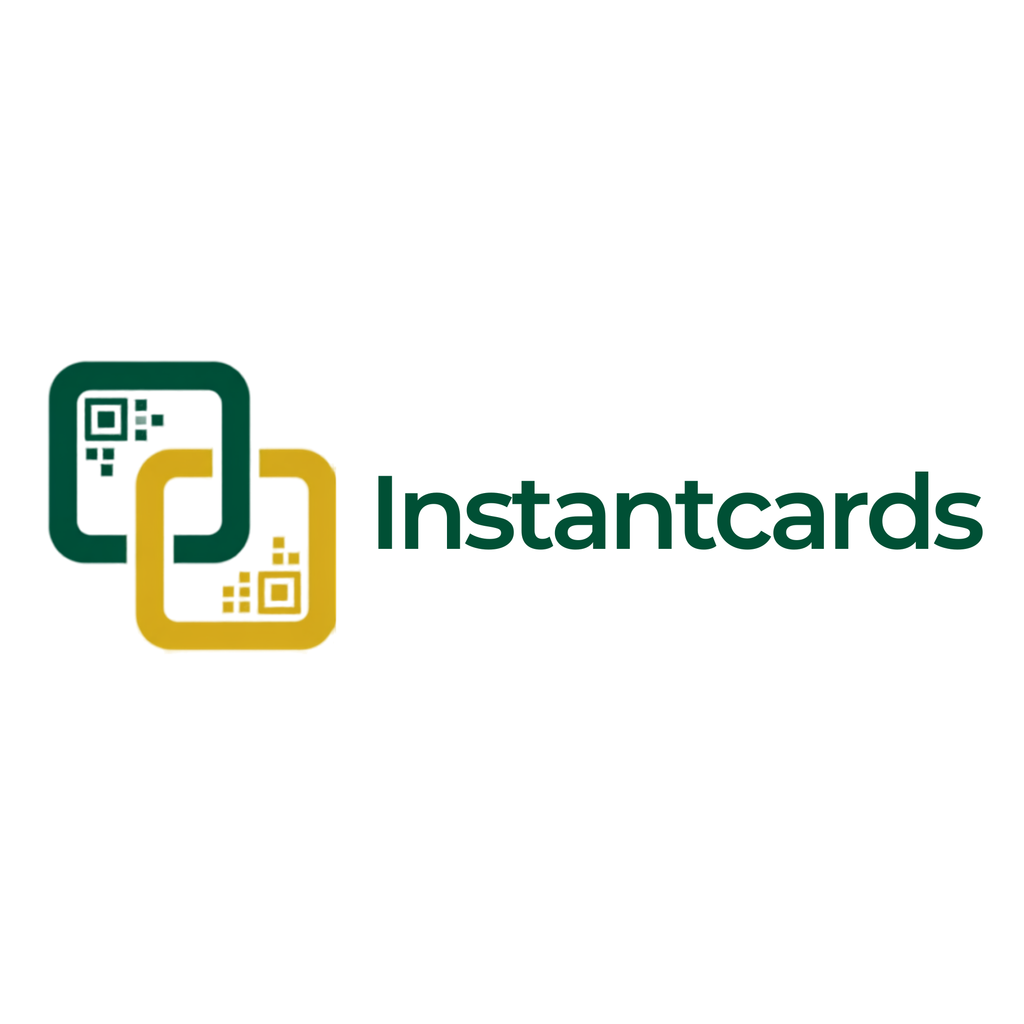
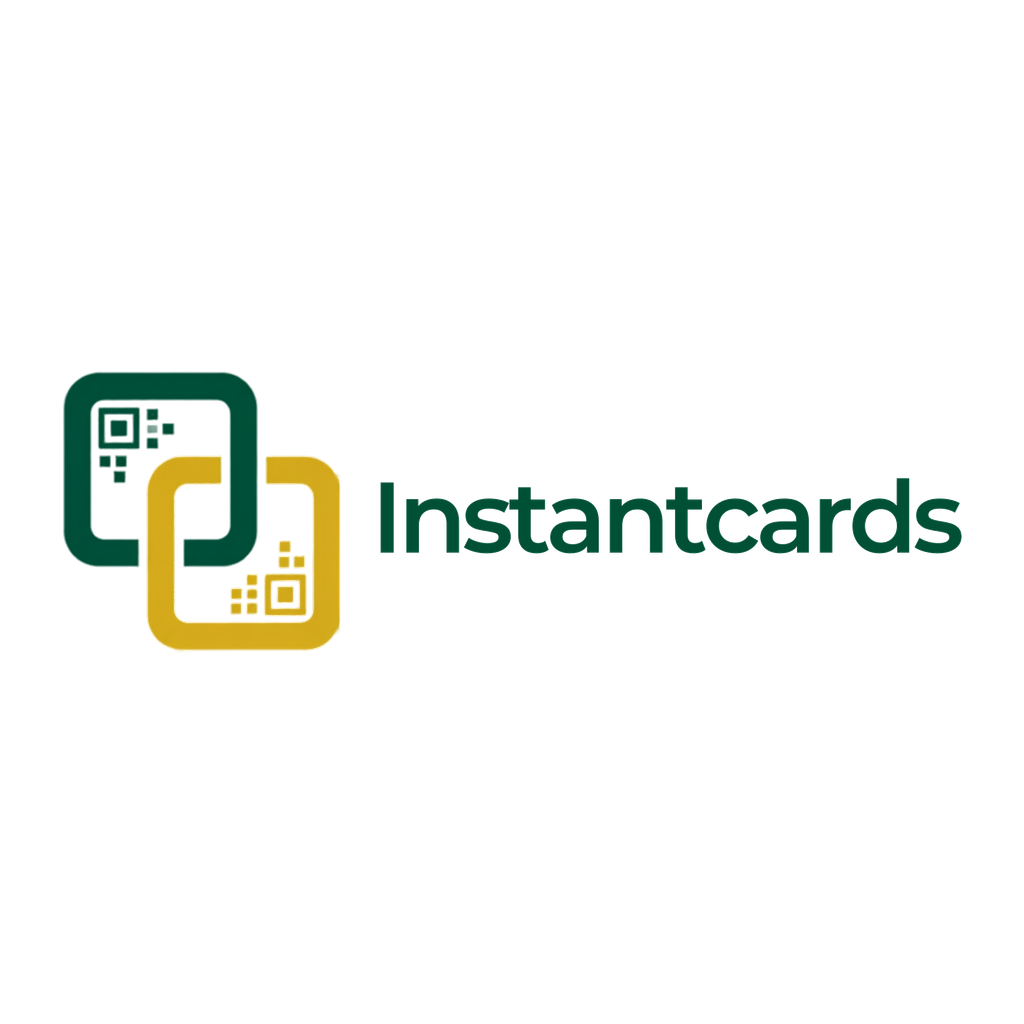
Refactor code structure for improved readability and maintainability

Changed region(s): [[0.0312, 0.3438, 0.9688, 0.6562]]

diff --git a/app/app/(tabs)/_layout.tsx b/app/app/(tabs)/_layout.tsx
@@ -4,31 +4,36 @@ import { Tabs } from 'expo-router';
 import { View, Text, StyleSheet } from 'react-native';
 import { Colors, FontSizes, FontWeights } from '../../../src/utils/tokens';
 
+function tabIconColor(active: boolean) {
+  return active ? Colors.brand : Colors.text2;
+}
+
 // ── Icon components (SVG-free, pure View) ─────────────────────────────────────
 const HomeIcon  = ({ active }: { active: boolean }) => (
   <View style={[ico.base, active && ico.active]}>
-    <Text style={{ fontSize: 18 }}>⌂</Text>
+    <Text style={[ico.glyph, { fontSize: 20, color: tabIconColor(active) }]}>⌂</Text>
   </View>
 );
 const CardIcon  = ({ active }: { active: boolean }) => (
   <View style={[ico.base, active && ico.active]}>
-    <Text style={{ fontSize: 16 }}>▭</Text>
+    <Text style={[ico.glyph, { fontSize: 18, color: tabIconColor(active) }]}>▭</Text>
   </View>
 );
 const HistoryIcon = ({ active }: { active: boolean }) => (
   <View style={[ico.base, active && ico.active]}>
-    <Text style={{ fontSize: 16 }}>≡</Text>
+    <Text style={[ico.glyph, { fontSize: 18, color: tabIconColor(active) }]}>≡</Text>
   </View>
 );
 const ProfileIcon = ({ active }: { active: boolean }) => (
   <View style={[ico.base, active && ico.active]}>
-    <Text style={{ fontSize: 16 }}>◯</Text>
+    <Text style={[ico.glyph, { fontSize: 18, color: tabIconColor(active) }]}>◯</Text>
   </View>
 );
 
 const ico = StyleSheet.create({
   base:   { alignItems: 'center', justifyContent: 'center', width: 32, height: 32, borderRadius: 10 },
-  active: { backgroundColor: `${Colors.brand}18` },
+  active: { backgroundColor: `${Colors.brand}28` },
+  glyph:  { fontWeight: FontWeights.semibold, includeFontPadding: false },
 });
 
 export default function TabsLayout() {
@@ -45,7 +50,7 @@ export default function TabsLayout() {
           paddingTop: 8,
         },
         tabBarActiveTintColor:   Colors.brand,
-        tabBarInactiveTintColor: Colors.text3,
+        tabBarInactiveTintColor: Colors.text2,
         tabBarLabelStyle: {
           fontSize: FontSizes.xs,
           fontWeight: FontWeights.medium,

diff --git a/src/components/BrandLogo.tsx b/src/components/BrandLogo.tsx
@@ -1,7 +1,7 @@
 import React from 'react';
-import { Image, ImageStyle, StyleProp, StyleSheet, View, ViewStyle } from 'react-native';
-import { Radii } from '../utils/tokens';
+import { Image, ImageStyle, StyleProp, View, ViewStyle } from 'react-native';
 
+/** Transparent logo — regenerate with `npm run generate:assets`. */
 const logoSource = require('../../assets/logo.png');
 const logoAsset = Image.resolveAssetSource(logoSource);
 const LOGO_ASPECT = logoAsset.height / logoAsset.width;
@@ -11,37 +11,19 @@ type Props = {
   width?: number;
   style?: StyleProp<ViewStyle>;
   imageStyle?: StyleProp<ImageStyle>;
-  /** White pad behind logo (logo artwork includes light background) */
-  padded?: boolean;
 };
 
-export function BrandLogo({ width = 240, style, imageStyle, padded = true }: Props) {
+export function BrandLogo({ width = 240, style, imageStyle }: Props) {
   const height = Math.round(width * LOGO_ASPECT);
 
-  const image = (
-    <Image
-      source={logoSource}
-      style={[{ width, height }, imageStyle]}
-      resizeMode="contain"
-      accessibilityLabel="Instantcards"
-    />
-  );
-
-  if (!padded) {
-    return <View style={style}>{image}</View>;
-  }
-
   return (
-    <View style={[styles.pad, { paddingHorizontal: width * 0.06, paddingVertical: width * 0.04 }, style]}>
-      {image}
+    <View style={style}>
+      <Image
+        source={logoSource}
+        style={[{ width, height }, imageStyle]}
+        resizeMode="contain"
+        accessibilityLabel="Instantcards"
+      />
     </View>
   );
 }
-
-const styles = StyleSheet.create({
-  pad: {
-    backgroundColor: '#FFFFFF',
-    borderRadius: Radii.lg,
-    alignSelf: 'center',
-  },
-});

diff --git a/app/app/(tabs)/home.tsx b/app/app/(tabs)/home.tsx
@@ -19,8 +19,8 @@ function QuickAction({
 }: { icon: string; label: string; color: string; onPress: () => void }) {
   return (
     <TouchableOpacity style={styles.qaCell} onPress={onPress} activeOpacity={0.72}>
-      <View style={[styles.qaIcon, { backgroundColor: color + '18' }]}>
-        <Text style={{ fontSize: 20 }}>{icon}</Text>
+      <View style={[styles.qaIcon, { backgroundColor: color + '28' }]}>
+        <Text style={[styles.qaIconGlyph, { color }]}>{icon}</Text>
       </View>
       <Text style={styles.qaLabel}>{label}</Text>
     </TouchableOpacity>
@@ -169,6 +169,7 @@ const styles = StyleSheet.create({
   },
   qaCell: { alignItems: 'center', gap: 8 },
   qaIcon: { width: 56, height: 56, borderRadius: 18, alignItems: 'center', justifyContent: 'center' },
+  qaIconGlyph: { fontSize: 22, fontWeight: FontWeights.bold, includeFontPadding: false },
   qaLabel: { fontSize: FontSizes.xs, color: Colors.text2, textAlign: 'center' },
   txnList: { paddingHorizontal: Spacing.xl },
   skeletonRow: {

diff --git a/app/auth/register.tsx b/app/auth/register.tsx
@@ -78,7 +78,7 @@ export default function RegisterScreen() {
       </View>
 
       <ScrollView contentContainerStyle={styles.scroll} keyboardShouldPersistTaps="handled">
-        <BrandLogo width={180} style={{ marginBottom: Spacing.lg }} padded={false} />
+        <BrandLogo width={180} style={{ marginBottom: Spacing.lg }} />
         <View style={styles.row}>
           <Input containerStyle={{ flex: 1 }} label={t('auth.firstName')} value={form.firstName} onChangeText={(v) => setForm(p => ({ ...p, firstName: v }))} error={errors.firstName} placeholder="Kofi" />
           <Input containerStyle={{ flex: 1 }} label={t('auth.lastName')}  value={form.lastName}  onChangeText={(v) => setForm(p => ({ ...p, lastName: v  }))} error={errors.lastName}  placeholder="Mensah" />

diff --git a/app/auth/login.tsx b/app/auth/login.tsx
@@ -54,7 +54,7 @@ export default function LoginScreen() {
       </View>
 
       <ScrollView contentContainerStyle={styles.scroll} keyboardShouldPersistTaps="handled">
-        <BrandLogo width={200} style={{ marginBottom: Spacing.xl }} padded={false} />
+        <BrandLogo width={200} style={{ marginBottom: Spacing.xl }} />
         {step === 'phone' ? (
           <>
             <Text style={styles.title}>{t('auth.loginTitle')}</Text>
